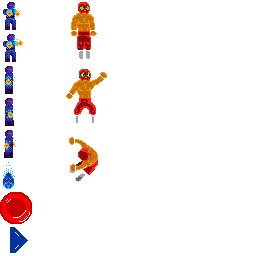
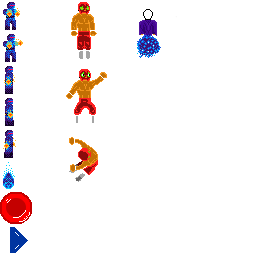
Se agrego un nuevo sprite para TeleportEnemy

Changed region(s): [[0.5312, 0.0312, 0.625, 0.2188]]

diff --git a/app/src/main/java/com/jgame/elements/TeleportEnemy.java b/app/src/main/java/com/jgame/elements/TeleportEnemy.java
@@ -19,6 +19,7 @@ public class TeleportEnemy extends GameCharacter {
     }
 
     public final static TextureData TELEPORT_TEXTURE = new TextureData(0,0.625f,0.125f,0.75f);
+    public final static TextureData IDLE_TEXTURE = new TextureData(0.5f,0,0.75f,0.25f);
     public final static float DISTANCE_FROM_ENEMY = 35;
     private CollisionObject[] startupBoxes = new CollisionObject[]{idleCollisionBoxes[0]};
     private CollisionObject[] activeBoxes = new CollisionObject[]{idleCollisionBoxes[0],
@@ -129,7 +130,7 @@ public class TeleportEnemy extends GameCharacter {
             return TELEPORT_TEXTURE;
 
         if(currentState != EnemyState.ATTACKING)
-            return MainCharacter.IDLE_TEXTURE;
+            return IDLE_TEXTURE;
 
         if(activeAttack.currentState == AttackData.CollisionState.ACTIVE)
             return MainCharacter.ACTIVE_MOV_A;
